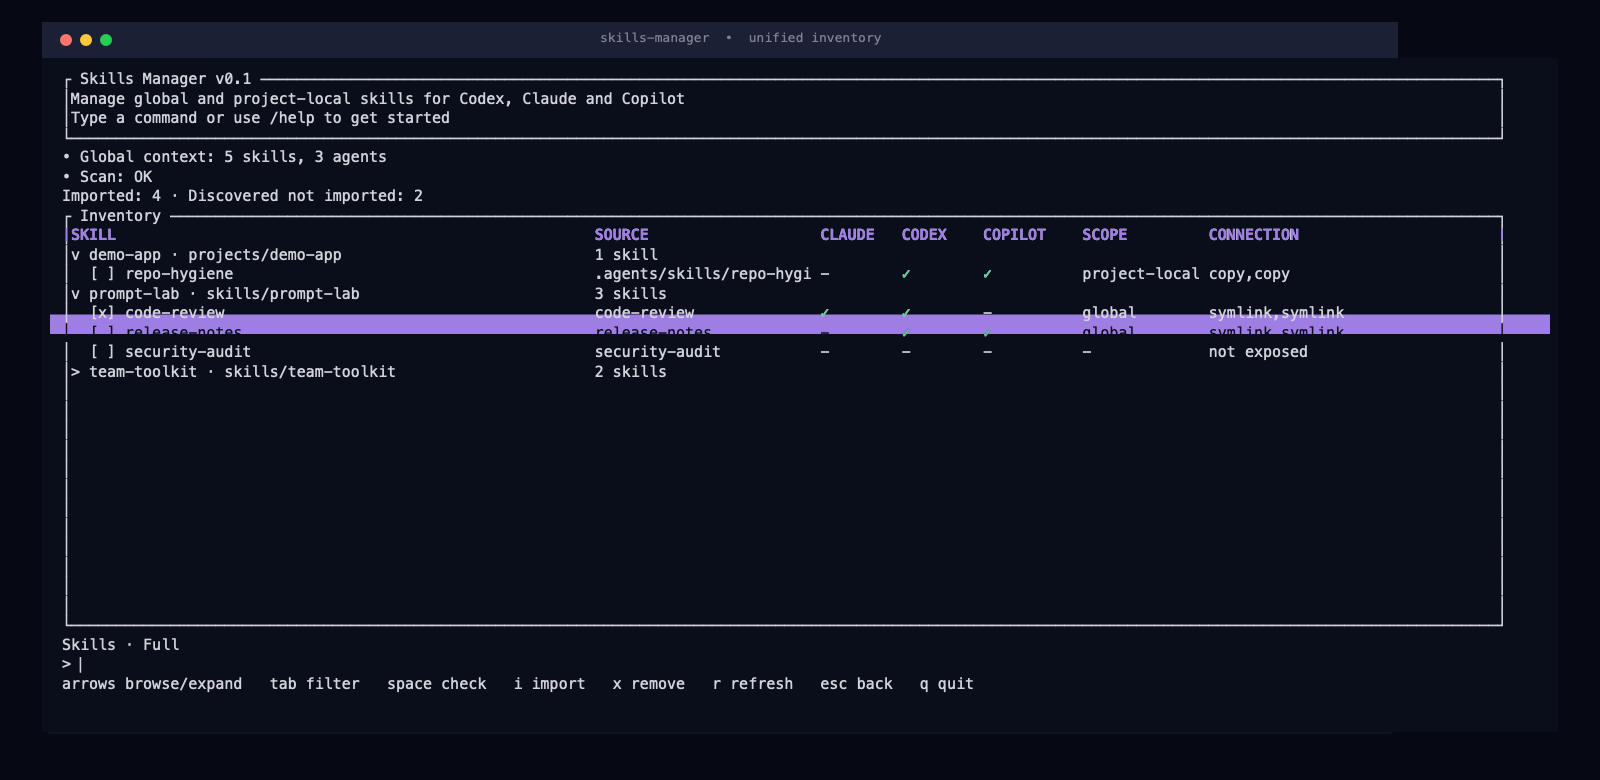
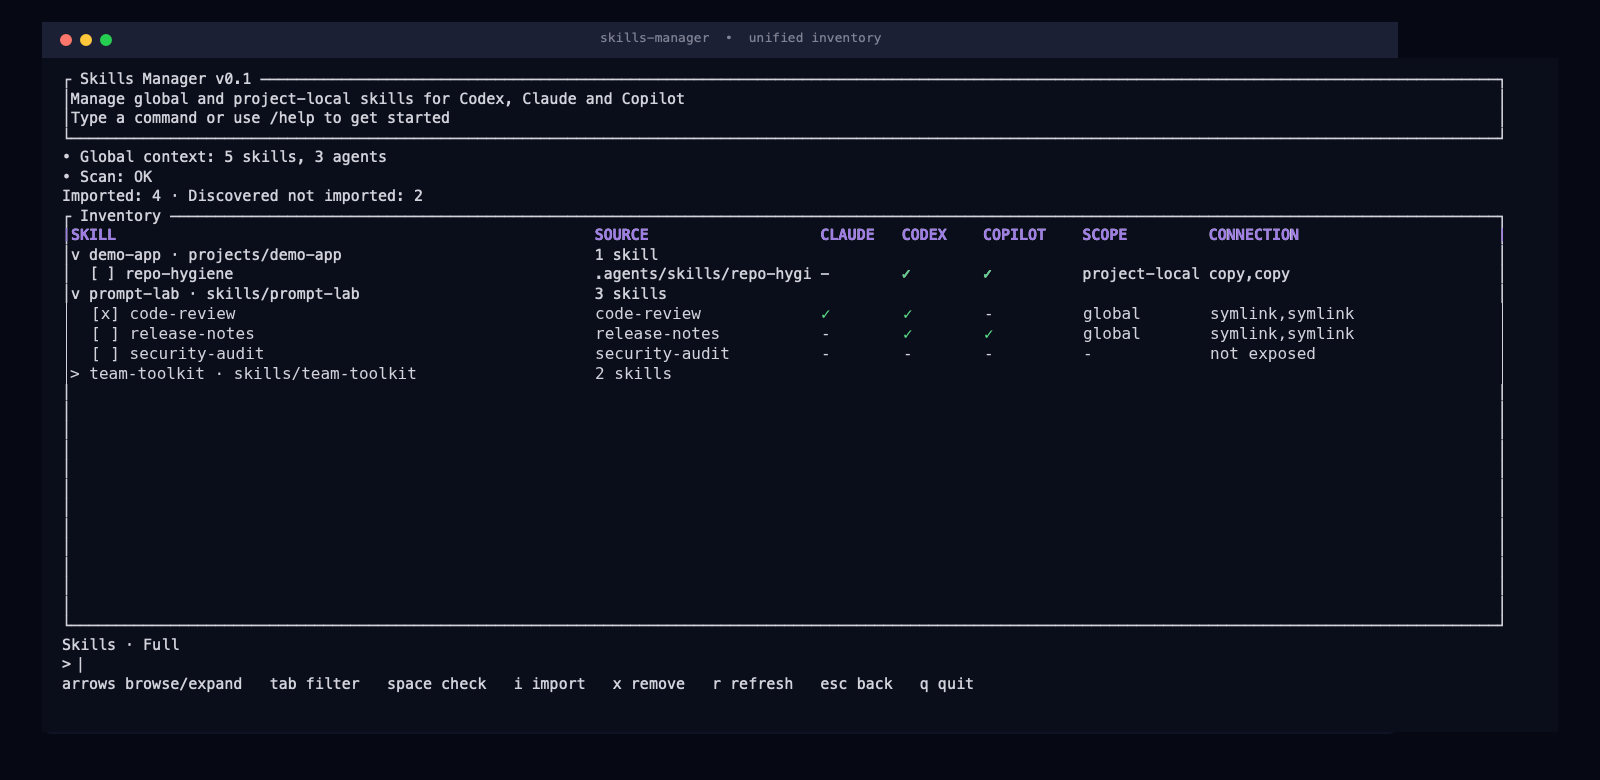
feat: add visual-check skill with Docker support and update documentation

Changed region(s): [[0.0312, 0.3692, 0.9688, 0.4923]]

diff --git a/.agents/skills/visual-check-playwright-docker/SKILL.md b/.agents/skills/visual-check-playwright-docker/SKILL.md
@@ -1,0 +1,101 @@
+---
+name: visual-check-playwright-docker
+description: Run visual regression checks for local HTML or TUI screenshot fixtures through Playwright Chromium in Docker. Use when validating terminal row height, clipped glyphs, selection artifacts, or README screenshot changes; requires a running Docker daemon and a healthy symphony-playwright container.
+---
+
+# Visual checks in Docker
+
+Use this skill for screenshot validation. The browser and its Playwright client must both come from the Docker container; do not mix the host Playwright version with the container's browser version.
+
+## Prerequisites
+
+Run this from the repository root before creating or accepting a screenshot:
+
+```sh
+bash .agents/skills/visual-check-playwright-docker/scripts/require-docker-playwright.sh
+```
+
+The check must pass all of these conditions:
+
+- Docker Desktop/daemon is running (`docker info` succeeds).
+- `symphony-playwright` is running and healthy.
+- The container has Playwright installed at `/usr/local/lib/node_modules/playwright`.
+- The container's Playwright server accepts a connection on port `3000`.
+
+If the existing container is stopped, start it and check again:
+
+```sh
+docker start symphony-playwright
+bash .agents/skills/visual-check-playwright-docker/scripts/require-docker-playwright.sh
+```
+
+If the container does not exist, provision the repository's current image and server with Docker running:
+
+```sh
+docker run -d \
+  --name symphony-playwright \
+  --shm-size=2gb \
+  -p 3000:3000 \
+  symphony-playwright:1.63.0-alpha-2026-08-05 \
+  playwright run-server --host 0.0.0.0 --port 3000 --max-clients 20
+```
+
+Do not proceed when Docker or the browser server is unavailable. Do not silently fall back to a host browser.
+
+## Capture workflow
+
+1. Render the fixture or app at the exact target viewport. For the README inventory image, use `1600x780` with `deviceScaleFactor: 1`.
+2. Serve the fixture from the host, for example:
+
+   ```sh
+   python3 -m http.server 8765 --directory /absolute/path/to/visual-fixture
+   ```
+
+3. Connect from Node inside the running container. Use `host.docker.internal` for a host-served fixture on Docker Desktop:
+
+   ```sh
+   docker exec symphony-playwright node -e '
+   const { chromium } = require("/usr/local/lib/node_modules/playwright");
+   (async () => {
+     const browser = await chromium.connect("ws://127.0.0.1:3000/");
+     const page = await browser.newPage({
+       viewport: { width: 1600, height: 780 },
+       deviceScaleFactor: 1,
+     });
+     await page.goto("http://host.docker.internal:8765", { waitUntil: "networkidle" });
+     await page.screenshot({ path: "/tmp/skills-manager-inventory.png" });
+     await browser.close();
+   })().catch((error) => {
+     console.error(error);
+     process.exit(1);
+   });
+   '
+   docker cp symphony-playwright:/tmp/skills-manager-inventory.png docs/assets/skills-manager-inventory.png
+   ```
+
+4. Inspect the PNG at native size and in a zoomed crop of every expanded group. Keep the source fixture and screenshot in the same coordinate system; do not repair the PNG with a canvas mask or by painting over a selection band.
+
+## README inventory fixture
+
+The expanded list must keep this exact data:
+
+```text
+prompt-lab · skills/prompt-lab       3 skills
+  [x] code-review                    ✓  ✓  –  global  symlink,symlink
+  [ ] release-notes                  –  ✓  ✓  global  symlink,symlink
+  [ ] security-audit                 –  –  –  –       not exposed
+team-toolkit · skills/team-toolkit   2 skills
+```
+
+The rows in the 1600x780 capture use a 20px step. The expanded `code-review`, `release-notes`, and `security-audit` rows must each contain their complete glyph height; `code-review` and `release-notes` are the regression cases. Use `line-height: 20px` and never clip a row with a smaller fixed height or `overflow: hidden`. The group headers remain visible, and the screenshot must not contain the purple selected-row background.
+
+When a row-height check fails, fix the fixture/layout and re-render the complete screenshot. Do not copy pixels from the old PNG: the previous selection cleanup removed the lower glyph pixels of adjacent rows because it overwrote a rectangular band without reconstructing the row baselines.
+
+## Acceptance checklist
+
+- The prerequisite script passes.
+- The screenshot was made by the container Playwright client and Chromium.
+- The viewport is `1600x780`, with no unexpected device scale factor.
+- The three skill labels, two group labels, and two group counts match the fixture above.
+- Every expanded row has a complete top and bottom glyph edge at native and zoomed resolution.
+- No purple selection band or clipped text remains.

diff --git a/docs/changelog.md b/docs/changelog.md
@@ -1,5 +1,13 @@
 # Changelog
 
+## 2026-08-23
+
+| Time | Change | Docs |
+|---|---|---|
+| 2026-08-23 08:48 | Added a local visual-check skill that requires Docker-hosted Playwright and documents the inventory row-height invariants. | `.agents/skills/visual-check-playwright-docker/` |
+| 2026-08-23 08:23 | Re-rendered multi-skill inventory rows with full glyph height so `code-review` and `release-notes` are no longer clipped. | `README.md`, `assets/skills-manager-inventory.png` |
+| 2026-08-23 08:08 | Regenerated the README inventory screenshot without the selected-row highlight while preserving the expanded skill fixture. | `README.md`, `assets/skills-manager-inventory.png` |
+
 ## 2026-08-22
 
 | Time | Change | Docs |
